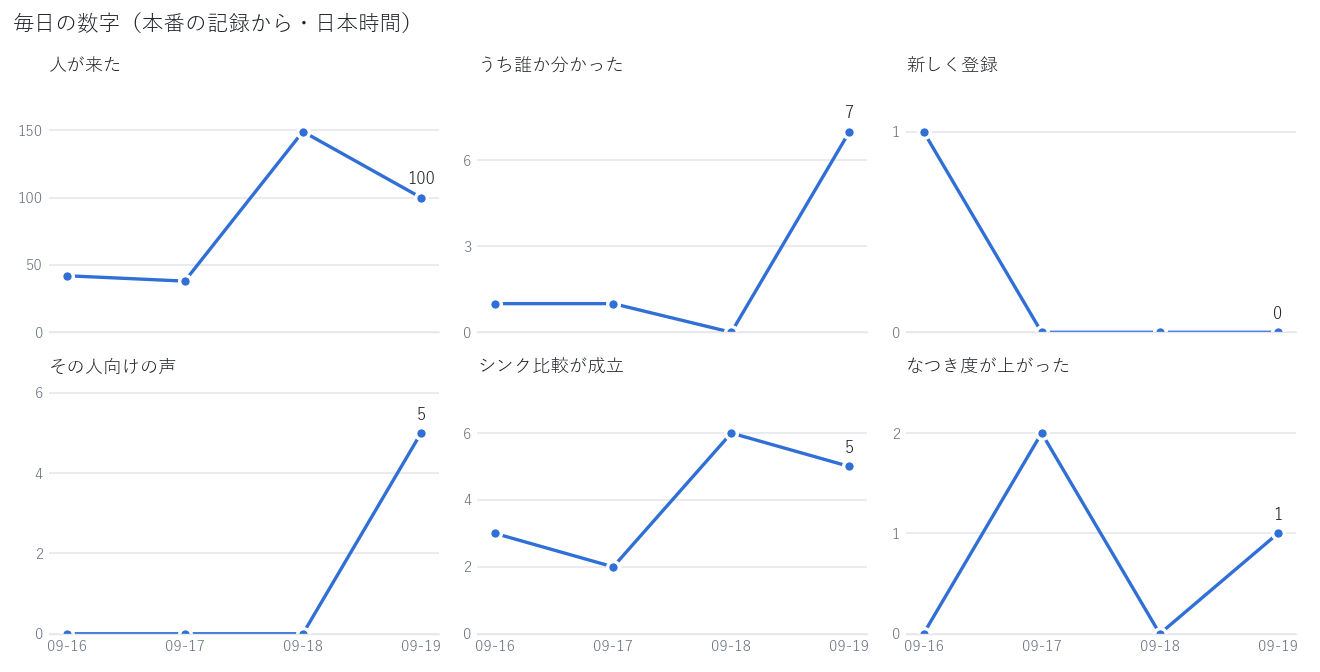
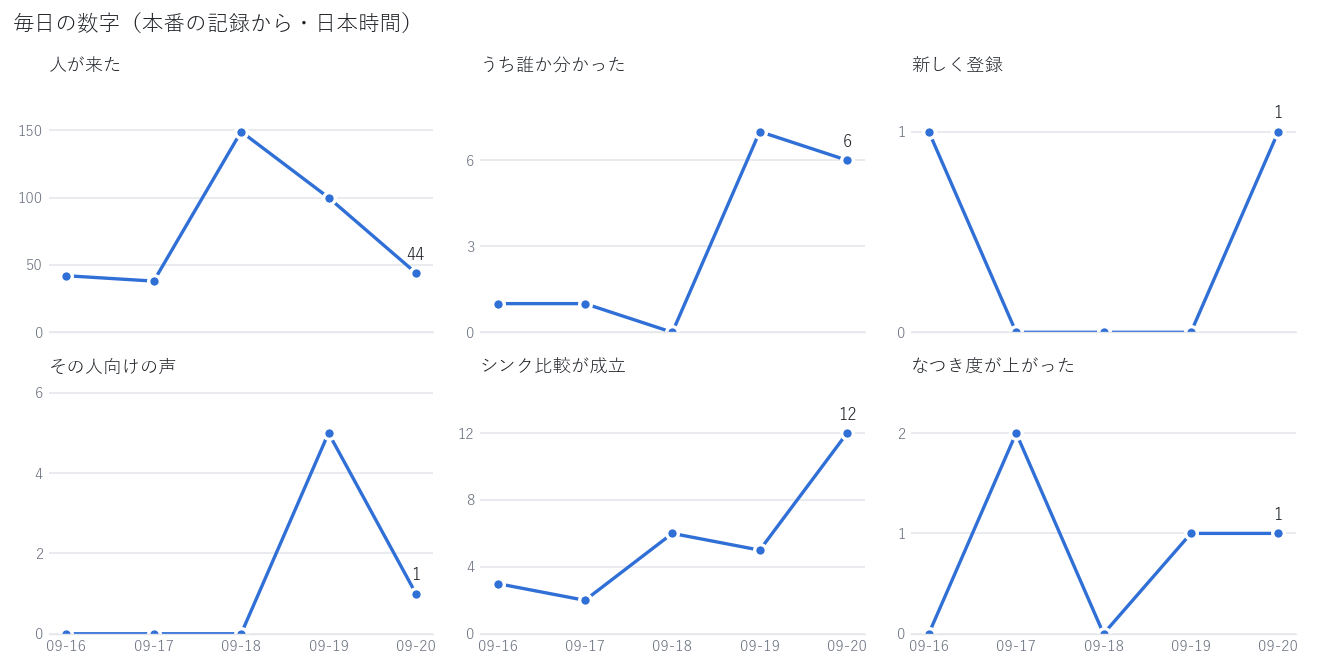
fix: never let a later run shrink a day's row, and record 9/20 so far
/spirit/log only returns the last 1000 events, so re-running the report on a busy
day sees only the tail: this morning a re-run of 9/19 replaced 100 arrivals with
the 5 that were still in the window. save_csv now keeps the larger row and says so,
unless --force is given. The 9/19 row is back to the 13:30 snapshot; 13:30-22:31 is
gone from the API.

diff --git a/scripts/day_report.py b/scripts/day_report.py
@@ -181,10 +181,33 @@ def print_report(row: dict, d: dict) -> None:
 
 
 def save_csv(row: dict) -> list:
+    """その日の行を書き直す。ただし、**前より少ない数では上書きしない**（2026-09-20）。
+
+    `/spirit/log` は最新1000件までしか返さない。混んだ日は、夜にもう一度走らせると
+    その日の前半が窓から外れていて、「人が来た5」のような小さい数が返る。
+    9/20 にこれで 9/19 の行（100件）を 5件で潰した。
+    少ない数で走らせたときは、書かずに知らせるだけにする（--force で上書きできる）。"""
     rows = []
+    old = None
     if os.path.exists(CSV_PATH):
         with open(CSV_PATH, encoding="utf-8-sig", newline="") as f:
-            rows = [r for r in csv.DictReader(f) if r.get("日付") != row["日付"]]
+            for r in csv.DictReader(f):
+                if r.get("日付") == row["日付"]:
+                    old = r
+                else:
+                    rows.append(r)
+    if old and "--force" not in sys.argv:
+        try:
+            was, now = int(old.get("人が来た") or 0), int(row["人が来た"])
+        except ValueError:
+            was = now = 0
+        if was > now:
+            print("\n※ 前の行のほうが多いので書き替えません（前 %d件／今回 %d件）。"
+                  "記録が窓から流れたあとに走らせると、こうなります。"
+                  "それでも書き替えるなら --force を付けてください。" % (was, now))
+            rows.append(old)
+            rows.sort(key=lambda r: r["日付"])
+            return rows
     rows.append({k: row[k] for k in COLUMNS})
     rows.sort(key=lambda r: r["日付"])
     with open(CSV_PATH, "w", encoding="utf-8-sig", newline="") as f:
